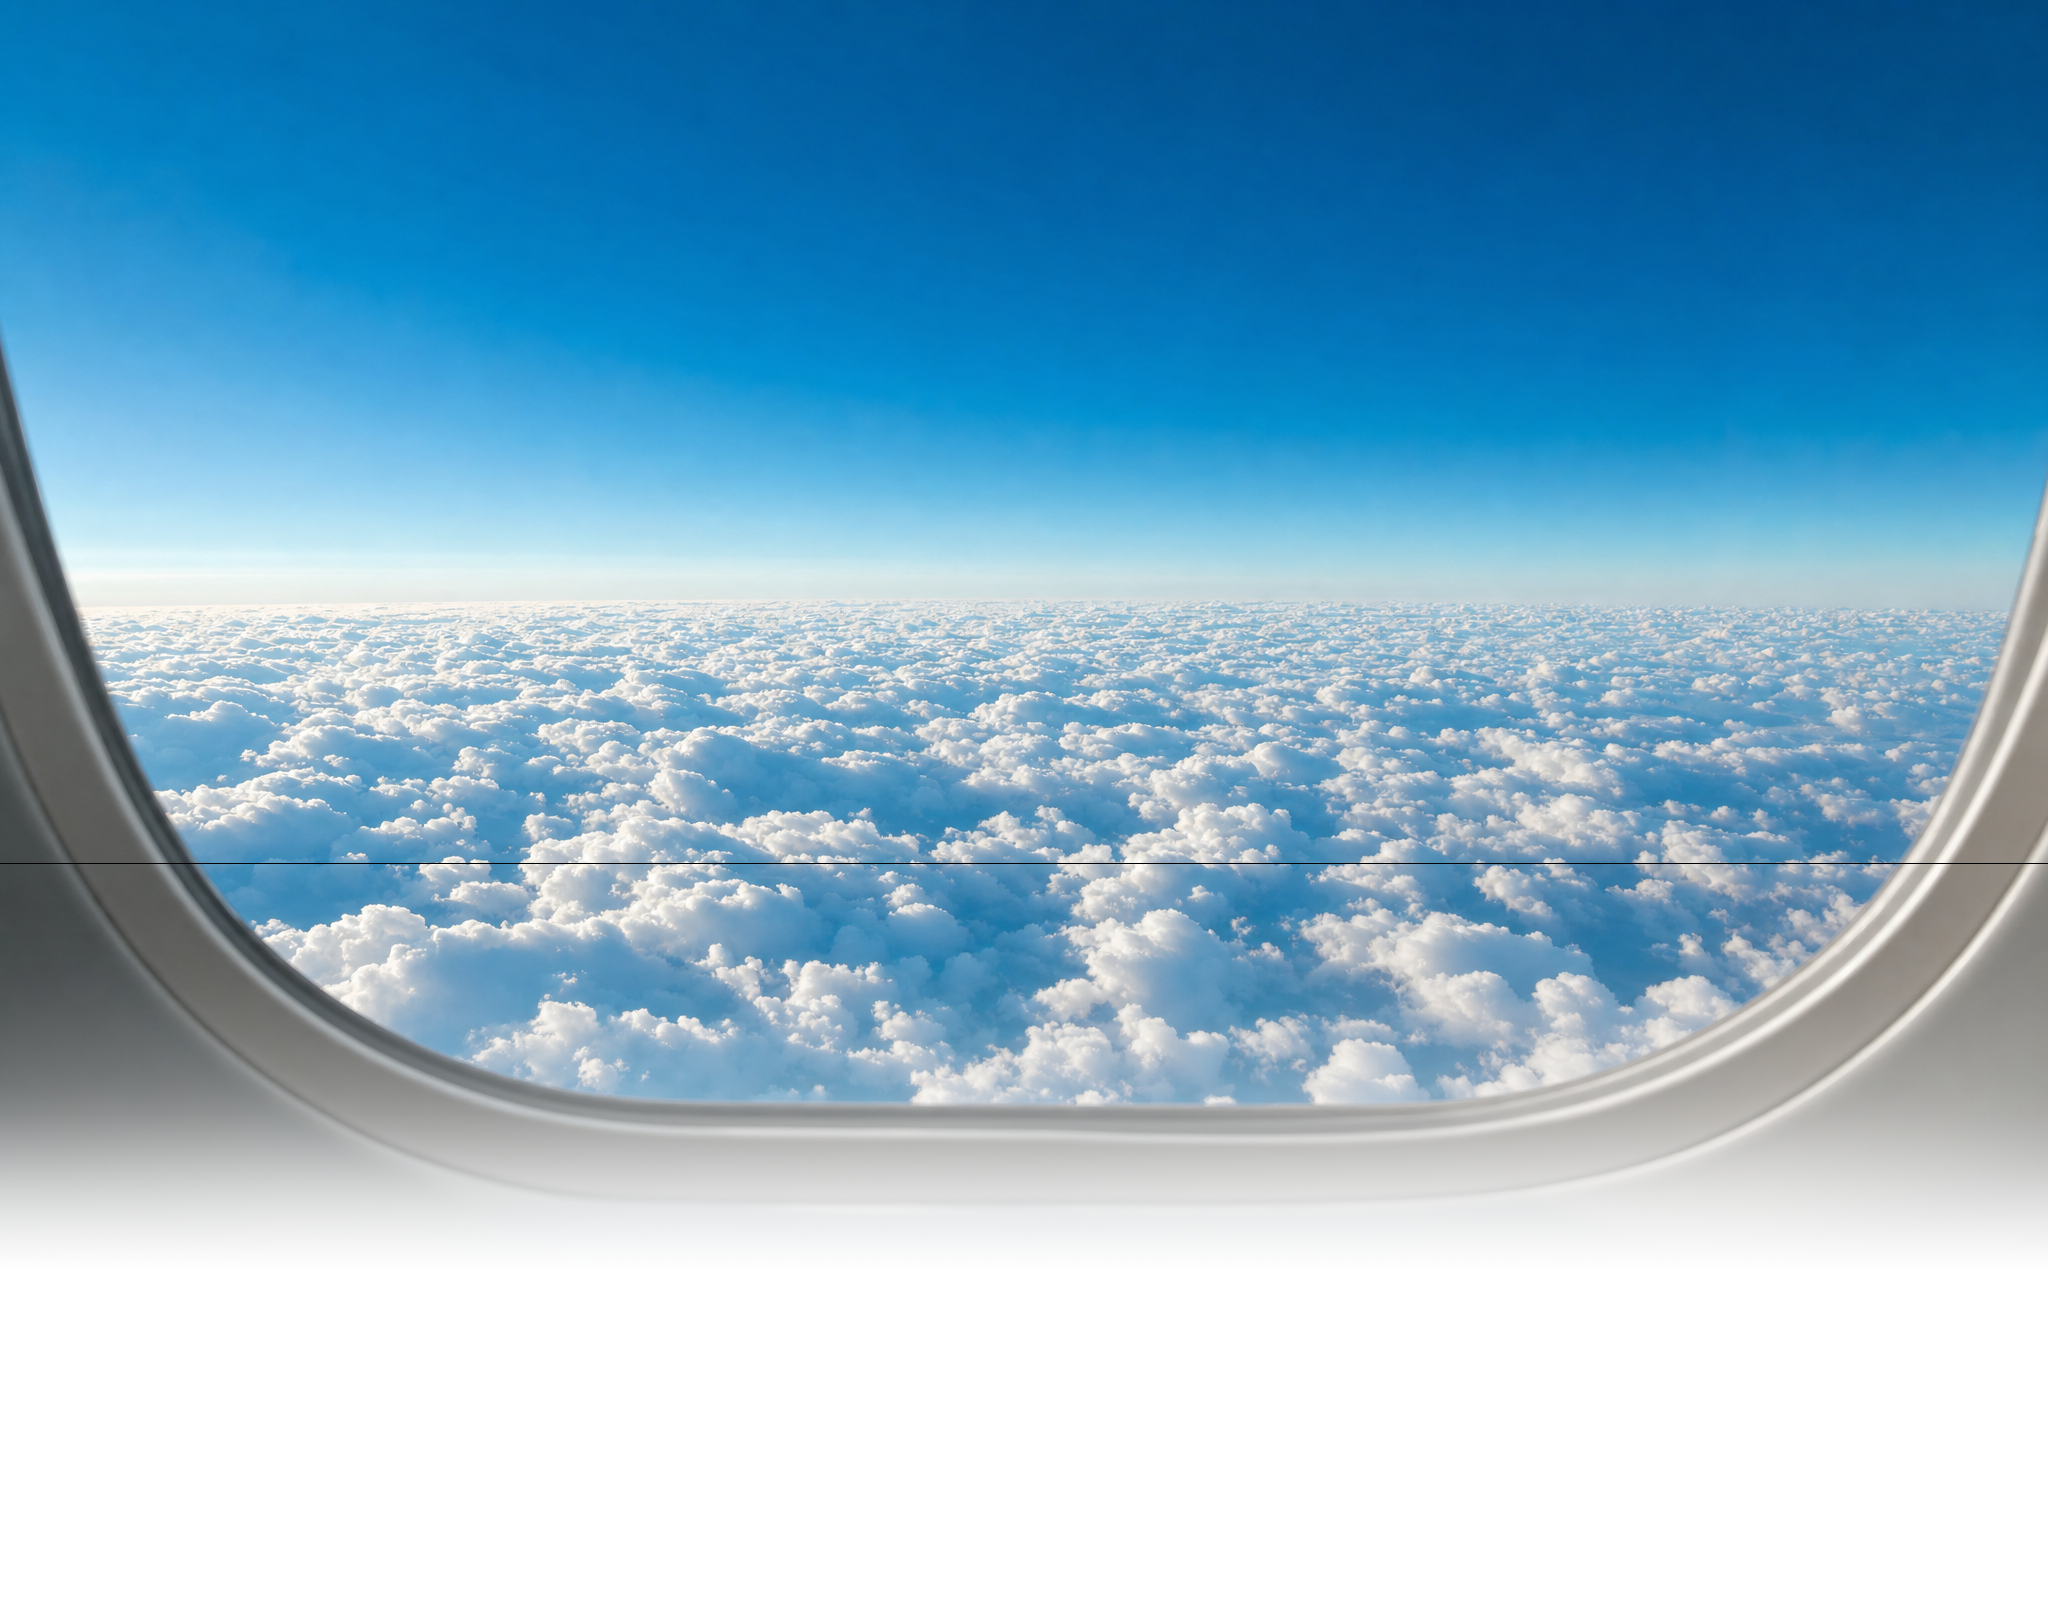
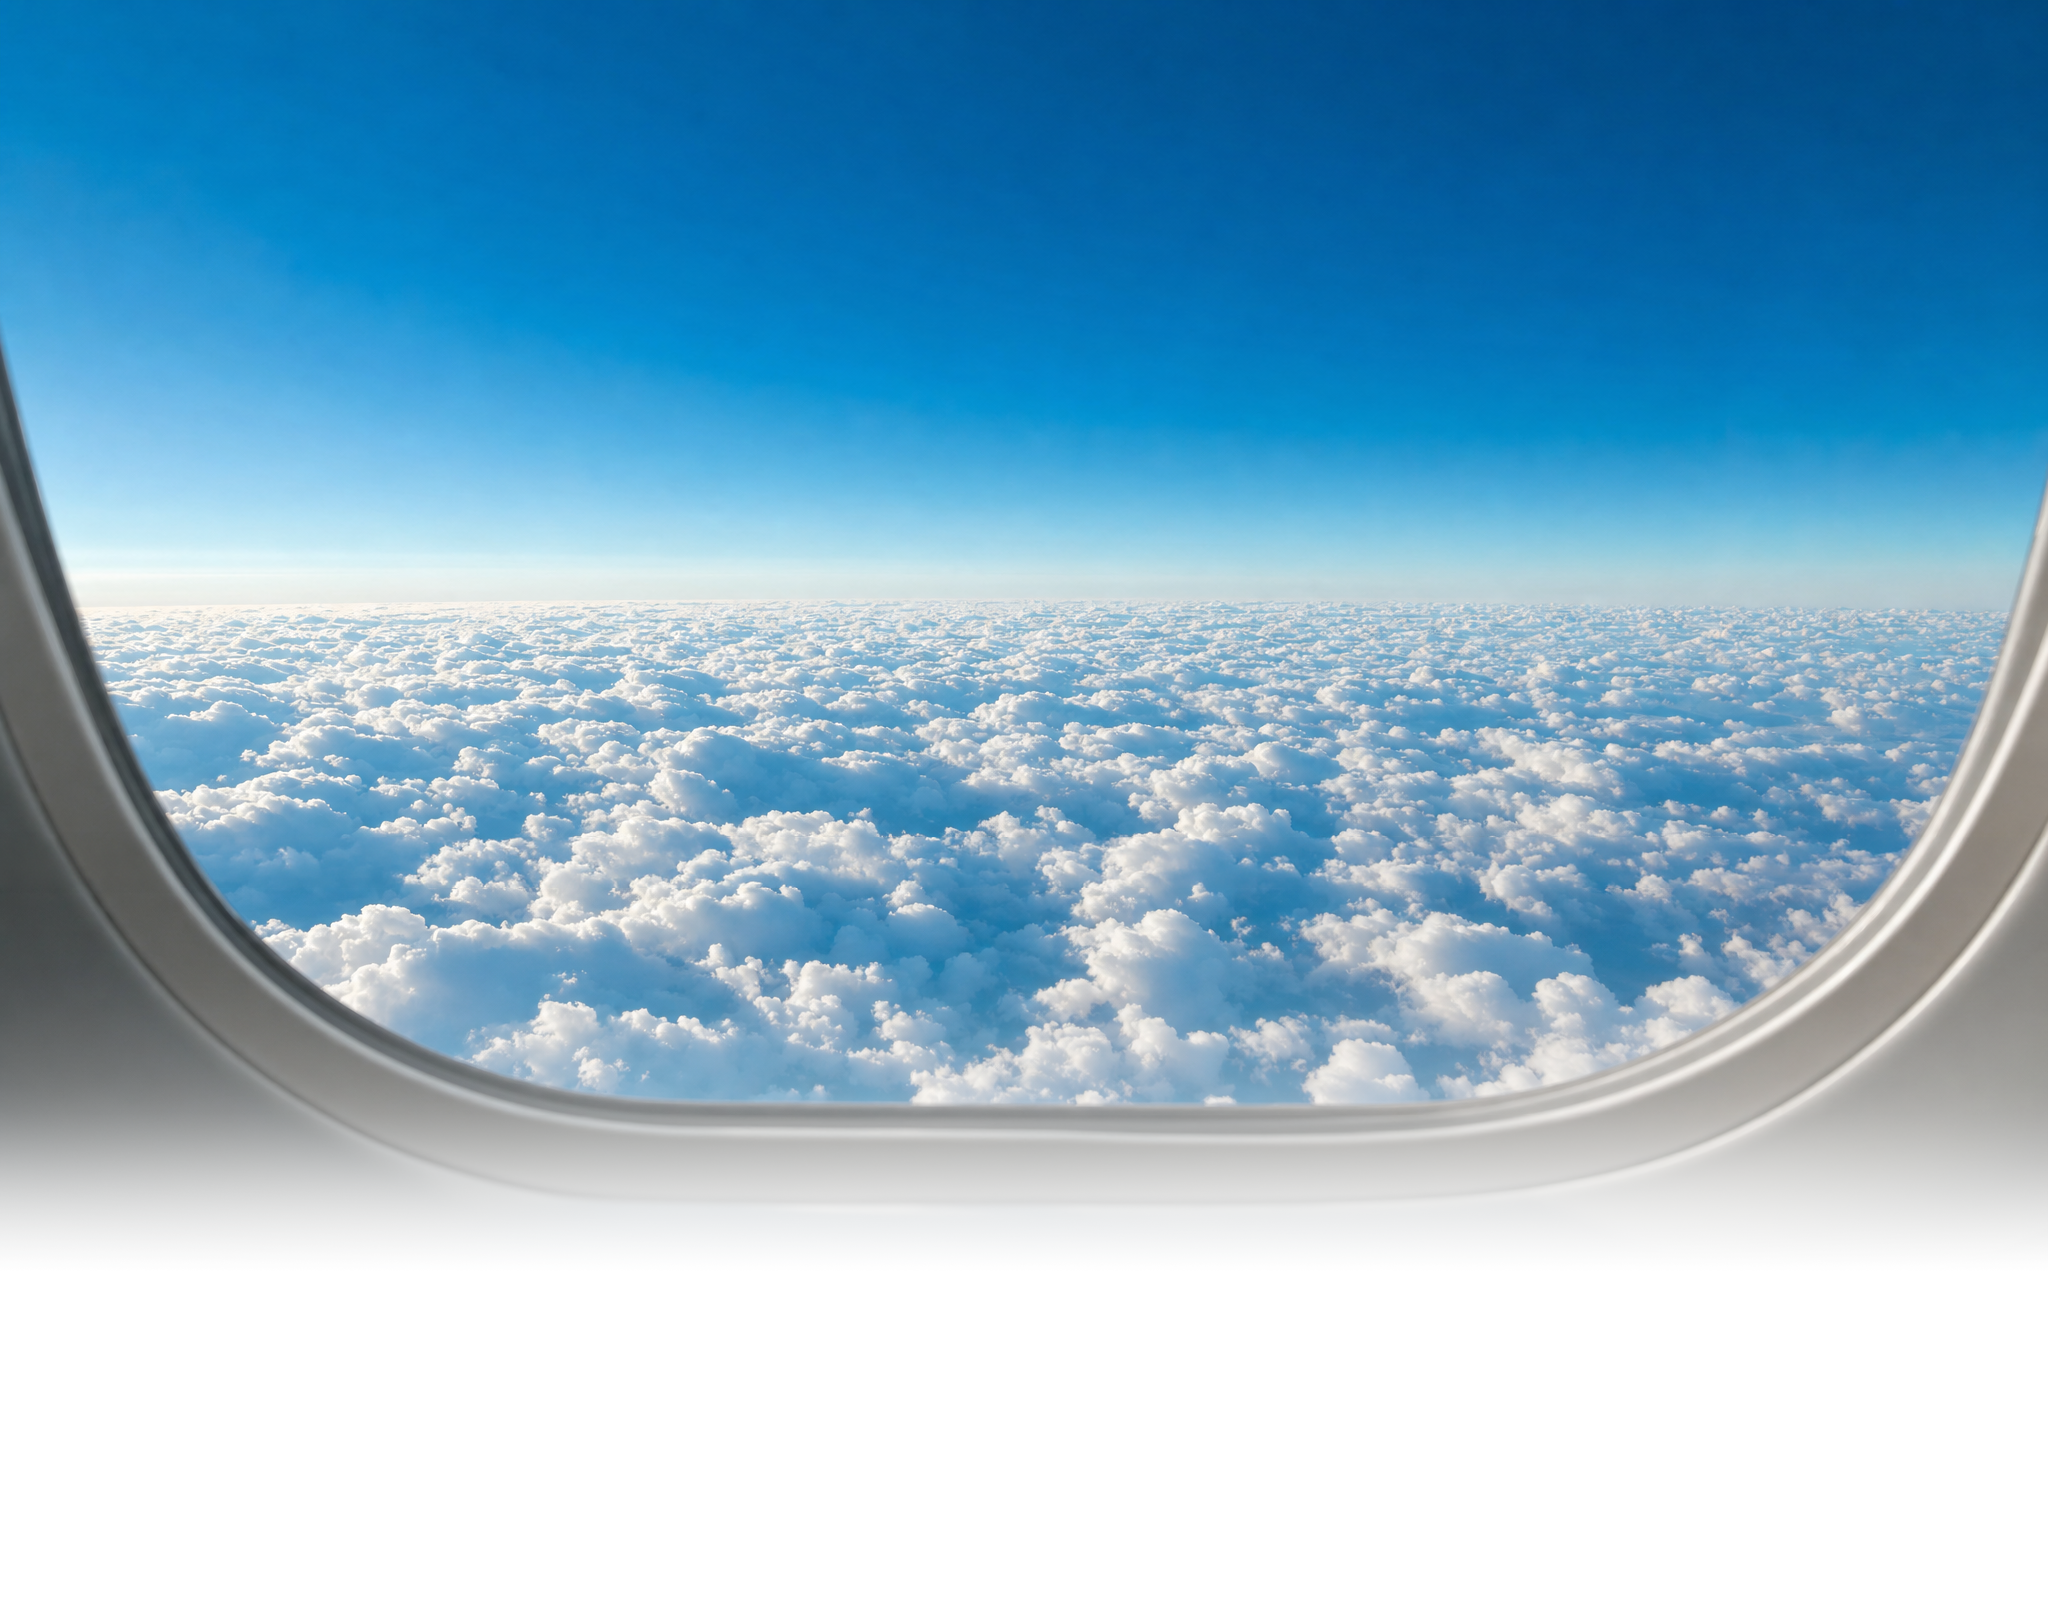
update

Changed region(s): [[0.0938, 0.5, 0.9375, 0.5625]]

diff --git a/11_TamManHo_webpage/paris.html b/11_TamManHo_webpage/paris.html
@@ -1,0 +1,89 @@
+<!DOCTYPE html>
+<html lang="en">
+    <head>
+        <meta charset="UTF-8">
+        <meta name="viewport" content="width=device-width, initial-scale=1.0">
+        <meta http-equiv="X-UA-Compatible" content="ie=edge">
+        <meta name="Description" content="Enter your description here"/>
+        <link rel="stylesheet" href="https://cdnjs.cloudflare.com/ajax/libs/twitter-bootstrap/4.6.0/css/bootstrap.min.css">
+        <link rel="stylesheet" href="https://cdnjs.cloudflare.com/ajax/libs/font-awesome/5.15.4/css/all.min.css">
+        <link rel="stylesheet" href="pa.css">
+        <title>About</title>
+
+        <!-- google font -->
+        <link rel="preconnect" href="https://fonts.googleapis.com">
+        <link rel="preconnect" href="https://fonts.gstatic.com" crossorigin>
+        <link href="https://fonts.googleapis.com/css2?family=Cookie&display=swap" rel="stylesheet">
+
+        <link rel="preconnect" href="https://fonts.googleapis.com">
+        <link rel="preconnect" href="https://fonts.gstatic.com" crossorigin>
+        <link href="https://fonts.googleapis.com/css2?family=Montserrat:ital,wght@0,100..900;1,100..900&display=swap" rel="stylesheet">
+
+        <link rel="preconnect" href="https://fonts.googleapis.com">
+        <link rel="preconnect" href="https://fonts.gstatic.com" crossorigin>
+        <link href="https://fonts.googleapis.com/css2?family=Montserrat:ital,wght@0,100..900;1,100..900&family=Noto+Sans+Egyptian+Hieroglyphs&display=swap" rel="stylesheet">
+
+        <link rel="preconnect" href="https://fonts.googleapis.com">
+        <link rel="preconnect" href="https://fonts.gstatic.com" crossorigin>
+        <link href="https://fonts.googleapis.com/css2?family=Chelsea+Market&display=swap" 
+        rel="stylesheet">
+        
+        <link rel="preconnect" href="https://fonts.googleapis.com">
+        <link rel="preconnect" href="https://fonts.gstatic.com" crossorigin>
+        <link href="https://fonts.googleapis.com/css2?family=Chelsea+Market&family=Limelight&display=swap" rel="stylesheet">
+
+        <link rel="preconnect" href="https://fonts.googleapis.com">
+        <link rel="preconnect" href="https://fonts.gstatic.com" crossorigin>
+        <link href="https://fonts.googleapis.com/css2?family=Almendra:ital,wght@0,400;0,700;1,400;1,700&family=Chelsea+Market&family=Limelight&display=swap" rel="stylesheet">
+
+        <link rel="preconnect" href="https://fonts.googleapis.com">
+        <link rel="preconnect" href="https://fonts.gstatic.com" crossorigin>
+        <link href="https://fonts.googleapis.com/css2?family=Almendra:ital,wght@0,400;0,700;1,400;1,700&family=Chelsea+Market&family=Limelight&family=Racing+Sans+One&display=swap" rel="stylesheet">
+
+        <link rel="preconnect" href="https://fonts.googleapis.com">
+        <link rel="preconnect" href="https://fonts.gstatic.com" crossorigin>
+        <link href="https://fonts.googleapis.com/css2?family=Almendra:ital,wght@0,400;0,700;1,400;1,700&family=Cal+Sans&family=Chelsea+Market&family=Limelight&family=Racing+Sans+One&display=swap" rel="stylesheet">
+
+
+
+        
+        <meta name="view-transition" content="same-origin">
+        <script src="https://unpkg.com/lucide@latest"></script>
+        <link href="https://unpkg.com/aos@2.3.1/dist/aos.css" rel="stylesheet">
+    </head>
+
+
+
+    <body>
+
+        <div class="nav-con">
+            <div class="wor">
+               <a class="nav-color" style="color: rgb(255, 255, 255);" href="">EN /</a>
+               <a style="color: rgb(255, 255, 255);" href="">CN</a>
+            </div>
+            <a style="color: rgb(255, 255, 255);" href="about.html">About us</a>
+            <a style="color: rgb(255, 255, 255);"  href="index.html" class="logo">Essence</a>
+            <a style="color: rgb(255, 255, 255);" href="pic.html">Photo</a>
+            <a style="color: rgb(255, 255, 255);" href="contact.html">Contact</a>
+        </div>
+
+
+
+
+
+        <footer class="container" style="font-size: 13px;">
+            <p>© 2026 TimothyTam · No.11 · Assignment 1</p>
+        </footer>
+
+
+
+        <script src="https://cdnjs.cloudflare.com/ajax/libs/jquery/3.5.1/jquery.slim.min.js"></script>
+        <script src="https://cdnjs.cloudflare.com/ajax/libs/popper.js/1.16.1/umd/popper.min.js"></script>
+        <script src="https://cdnjs.cloudflare.com/ajax/libs/twitter-bootstrap/4.6.0/js/bootstrap.min.js"></script>
+        <script>lucide.createIcons();</script>
+        <script src="https://unpkg.com/aos@2.3.1/dist/aos.js"></script>
+        <script>AOS.init();</script>
+    </body>
+
+
+</html>

diff --git a/11_TamManHo_webpage/about.html b/11_TamManHo_webpage/about.html
@@ -8,7 +8,7 @@
         <link rel="stylesheet" href="https://cdnjs.cloudflare.com/ajax/libs/twitter-bootstrap/4.6.0/css/bootstrap.min.css">
         <link rel="stylesheet" href="https://cdnjs.cloudflare.com/ajax/libs/font-awesome/5.15.4/css/all.min.css">
         <link rel="stylesheet" href="main.css">
-        <link rel="stylesheet" href="style-contact.css">
+        <link rel="stylesheet" href="style-about.css">
         <title>About</title>
 
         <!-- google font -->
@@ -68,42 +68,61 @@
             <a style="color: rgb(255, 255, 255);" href="contact.html">Contact</a>
         </div>
 
-        <div>
-            <h1>Travel is not a destination. It is an intent.</h1>
+        <div data-aos="fade-down" 
+        data-aos-delay="100" 
+        data-aos-once="true"
+        data-aos-duration="1300"
+        class="about-gp">
+            <h1 style="align-items: center;">Travel is not a destination. <br>It is an intent.</h1>
             <p>Most travel guides tell you where to go. Essence is designed for why you go. We believe every journey begins with a specific state of mind—whether it is the quiet pull of ancient history, the vibrant pulse of a fashion capital, the raw embrace of wilderness, or the joy of shared family moments.</p>
+
+            <hr>
+
+            <div>
+                <h2>One world,<br> filtered through four unique lenses.</h2>
+                <h3>We strip away the noise of conventional <br> tourism and curate four distinct paths:</h3>
+            </div>
+
+            <div class="tab-ab">
+                <table>
+                    <tr>
+                        <td>History</td>
+                        <td>The timeless echoes of ancient civilizations.</td>
+                    </tr>
+                    <tr>
+                        <td>Fashion</td>
+                        <td>The cutting-edge rhythm of style and culture.</td>
+                    </tr>
+                    <tr>
+                        <td>History</td>
+                        <td>The breathtaking escape into the wild.</td>
+                    </tr>
+                    <tr>
+                        <td>History</td>
+                        <td>The warmth of unforgettable shared experiences.</td>
+                    </tr>
+                </table>
+            </div>
         </div>
 
-        <div>
-            <h2>One world, filtered through four unique lenses.</h2>
-            <h3>We strip away the noise of conventional tourism and curate four distinct paths:</h3>
-            <table>
-                <tr>
-                    <td>History</td>
-                    <td>The timeless echoes of ancient civilizations.</td>
-                </tr>
-                <tr>
-                    <td>Fashion</td>
-                    <td>The cutting-edge rhythm of style and culture.</td>
-                </tr>
-                <tr>
-                    <td>History</td>
-                    <td>The breathtaking escape into the wild.</td>
-                </tr>
-                <tr>
-                    <td>History</td>
-                    <td>The warmth of unforgettable shared experiences.</td>
-                </tr>
-            </table>
-         </div>
-
-         <h4>Find your essence.</h4>
-         <p>Choose your intent, immerse in the atmosphere, and experience the world on your own terms.</p>
+         <h4 data-aos="fade-down" 
+        data-aos-delay="200" 
+        data-aos-once="true"
+        data-aos-duration="1300"
+         style="display: flex; justify-content: center;">Find your essence.</h4>
+         <p data-aos="fade-down" 
+        data-aos-delay="250" 
+        data-aos-once="true"
+        data-aos-duration="1300"
+         style="display: flex; justify-content: center; align-items: center; text-align: center;">Choose your intent, immerse in the atmosphere, and <br> experience the world on your own terms.</p>
 
 
 
-        <footer class="container" style="font-size: 13px;">
-            <p>© 2026 TimothyTam · No.11 · Assignment 1</p>
-        </footer>
+        <div class="foot">
+            <footer>
+                <h6 style="font-size: 13px; display: flex; justify-content: center; align-items: center; text-align: center;">© 2026 TimothyTam · No.11 · Assignment 1</h6>
+            </footer>
+        </div>
 
 
 

diff --git a/11_TamManHo_webpage/style-about.css b/11_TamManHo_webpage/style-about.css
@@ -1,0 +1,52 @@
+.about-gp {
+    background-color: rgb(243, 243, 243, 0.7);
+    width: 800px;
+    margin: 0 auto;
+    padding: 60px;
+    margin-top: 80px;
+    text-align: center;
+    border-radius: 50px;
+    margin-bottom: 30px;
+}
+
+.about-s2 {
+    background-color: rgb(243, 243, 243, 0.7);
+    width: 800px;
+    margin: 0 auto;
+    padding: 40px;
+    text-align: center;
+    border-radius: 50px;
+}
+
+hr {
+    width: 600px;
+    border: .6px solid rgb(43, 43, 43);
+}
+
+h1 {
+    font-weight: 600;
+}
+
+h2 {
+    font-weight: 500;
+    margin-top: 30px;
+}
+
+h3 {
+    font-size: 20px;
+}
+
+p {
+    margin-bottom: 30px;
+}
+
+.tab-ab {
+    display: flex;
+    justify-content: center;
+    margin-top: 30px;
+}
+
+table, tr, td {
+    border: 1px solid darkgray;
+    padding: 20px;
+}

diff --git a/11_TamManHo_webpage/index.html b/11_TamManHo_webpage/index.html
@@ -84,9 +84,9 @@
               <div class="card-deck">
         
                 <!-- card -->
-                <div class="card m-3">
+                <div style="box-shadow: 0 4px 16px 0 rgba(0, 0, 0, 0.3)" class="card m-3">
                   <div class="egypt card-body">
-                    <h5 style="font-family: Chelsea Market;" class="card-title"><a href="egypt.html" class="stretched-link text-decoration-none text-reset"></a>Egypt</h5>
+                    <h5 style="font-family: Chelsea Market;" class="card-title"><a href="egypt.html" class="stretched-link text-decoration-none text-reset"></a>Egypt<br>Giza & Cairo</h5>
                     <p>History <br>& Culture</p>
                     <p style="font-family: Noto Sans Egyptian Hieroglyphs;"> 𓃻𓃾𓆓𓏲𓂝𓇯 </p>
                   </div>
@@ -94,27 +94,27 @@
                 <!-- end card -->
         
                 <!-- card -->
-                <div class="card m-3">
+                <div style="box-shadow: 0 4px 16px 0 rgba(0, 0, 0, 0.3)" class="card m-3">
                     <div class="paris card-body">
-                        <h5 style="font-family: Limelight;" class="card-title"><a href="egypt.html" class="stretched-link text-decoration-none text-reset"></a>Paris</h5>
+                        <h5 style="font-family: Limelight;" class="card-title"><a href="paris.html" class="stretched-link text-decoration-none text-reset"></a>France<br>Paris</h5>
                         <p>Shopping <br>& Fashion</p>
                     </div>
                 </div>
                 <!-- end card -->
         
                 <!-- card -->
-                <div class="card m-3">
+                <div style="box-shadow: 0 4px 16px 0 rgba(0, 0, 0, 0.3)" class="card m-3">
                   <div class="high card-body">
-                    <h5 style="font-family: Almendra;" class="card-title"><a href="egypt.html" class="stretched-link text-decoration-none text-reset"></a>Scottish <br>Highlands</h5>
+                    <h5 style="font-family: Almendra;" class="card-title"><a href="highlands.html" class="stretched-link text-decoration-none text-reset"></a>Scottish <br>Highlands</h5>
                     <p>Hiking <br>& Nature</p>
                   </div>
                 </div>
                 <!-- end card -->
         
                 <!-- card -->
-                <div class="card m-3">
+                <div style="box-shadow: 0 4px 16px 0 rgba(0, 0, 0, 0.3)" class="card m-3">
                   <div class="osaka card-body">
-                    <h5 style="font-family: Racing Sans One;" class="card-title"><a href="egypt.html" class="stretched-link text-decoration-none text-reset"></a>Osaka</h5>
+                    <h5 style="font-family: Racing Sans One;" class="card-title"><a href="japan.html" class="stretched-link text-decoration-none text-reset"></a>Japan<br>Osaka</h5>
                     <p>Family</p>
                   </div>
                 </div>
@@ -175,9 +175,11 @@
 
         <br>
 
-        <footer class="container" style="font-size: 13px;">
-            <p>© 2026 TimothyTam · No.11 · Assignment 1</p>
-        </footer>
+        <div class="foot">
+            <footer>
+                <h6 style="font-size: 13px; display: flex; justify-content: center; align-items: center; text-align: center;">© 2026 TimothyTam · No.11 · Assignment 1</h6>
+            </footer>
+        </div>
 
 
 

diff --git a/11_TamManHo_webpage/contact.html b/11_TamManHo_webpage/contact.html
@@ -128,9 +128,11 @@
             </div>  
         </div>
 
-        <footer class="container" style="font-size: 13px;">
-            <p>© 2026 TimothyTam · No.11 · Assignment 1</p>
-        </footer>
+        <div class="foot">
+            <footer>
+                <h6 style="font-size: 13px; display: flex; justify-content: center; align-items: center; text-align: center;">© 2026 TimothyTam · No.11 · Assignment 1</h6>
+            </footer>
+        </div>
 
 
 

diff --git a/11_TamManHo_webpage/style-contact.css b/11_TamManHo_webpage/style-contact.css
@@ -11,9 +11,12 @@ h1 {
 .formcon {
     display: flex;
     justify-content: center;
+    align-items: center;
     background-color: rgb(243, 243, 243, 0.9);
     padding: 60px;
     border-radius: 80px;
+    width: 1200px;
+    margin: 0 auto;
 }
 
 .formgroupb {